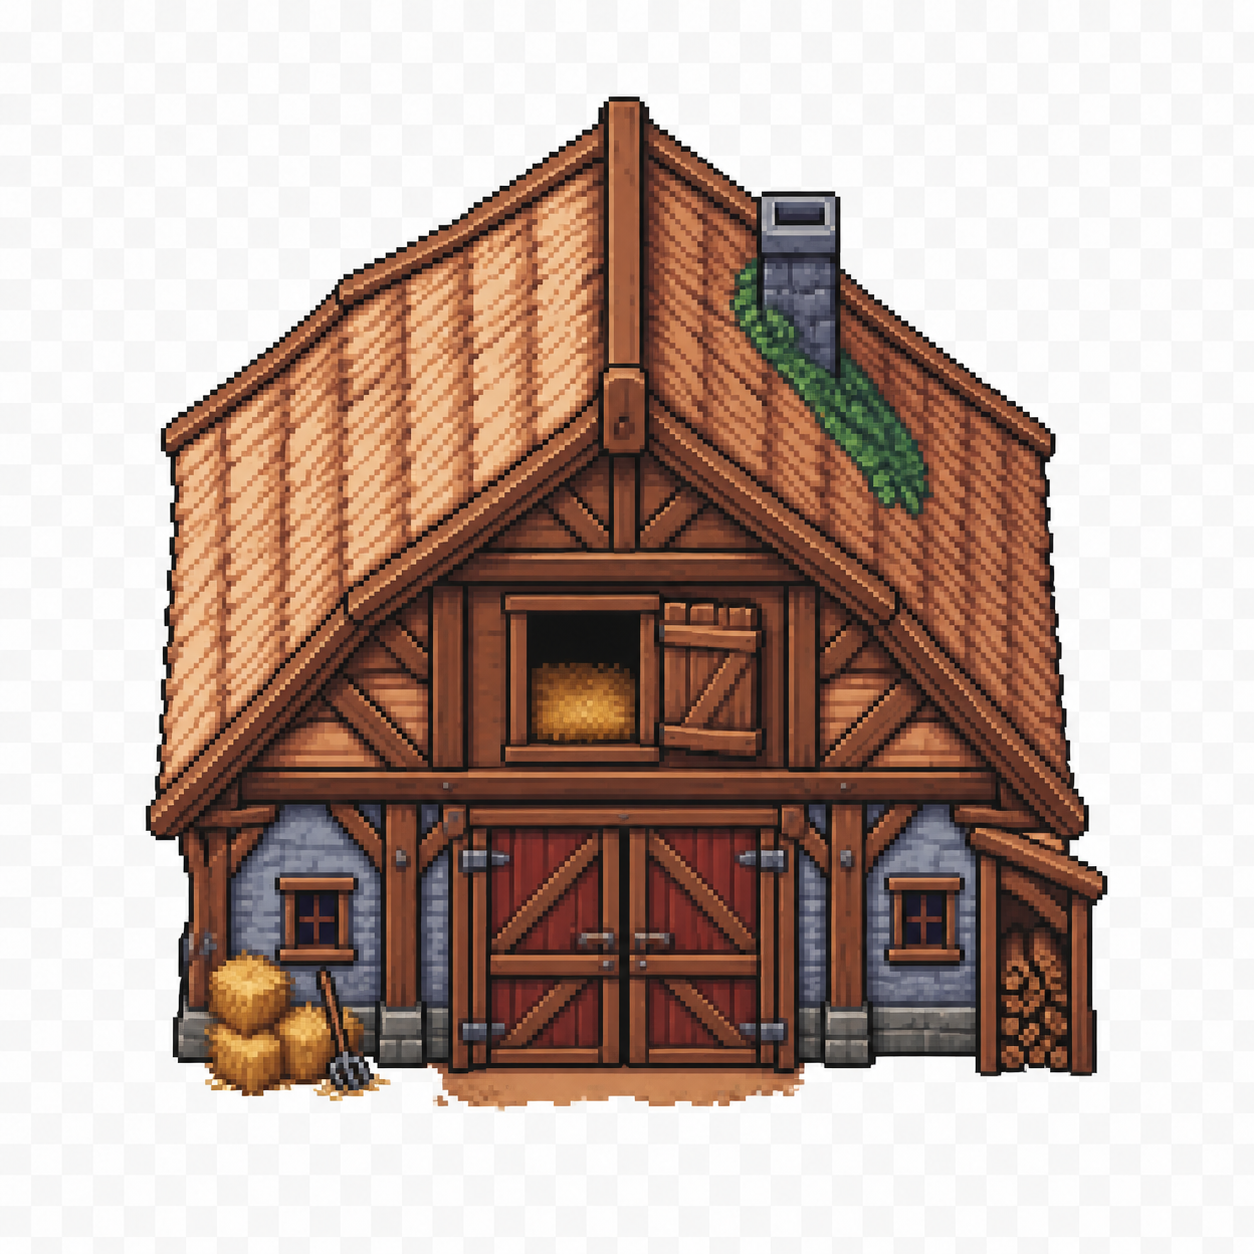
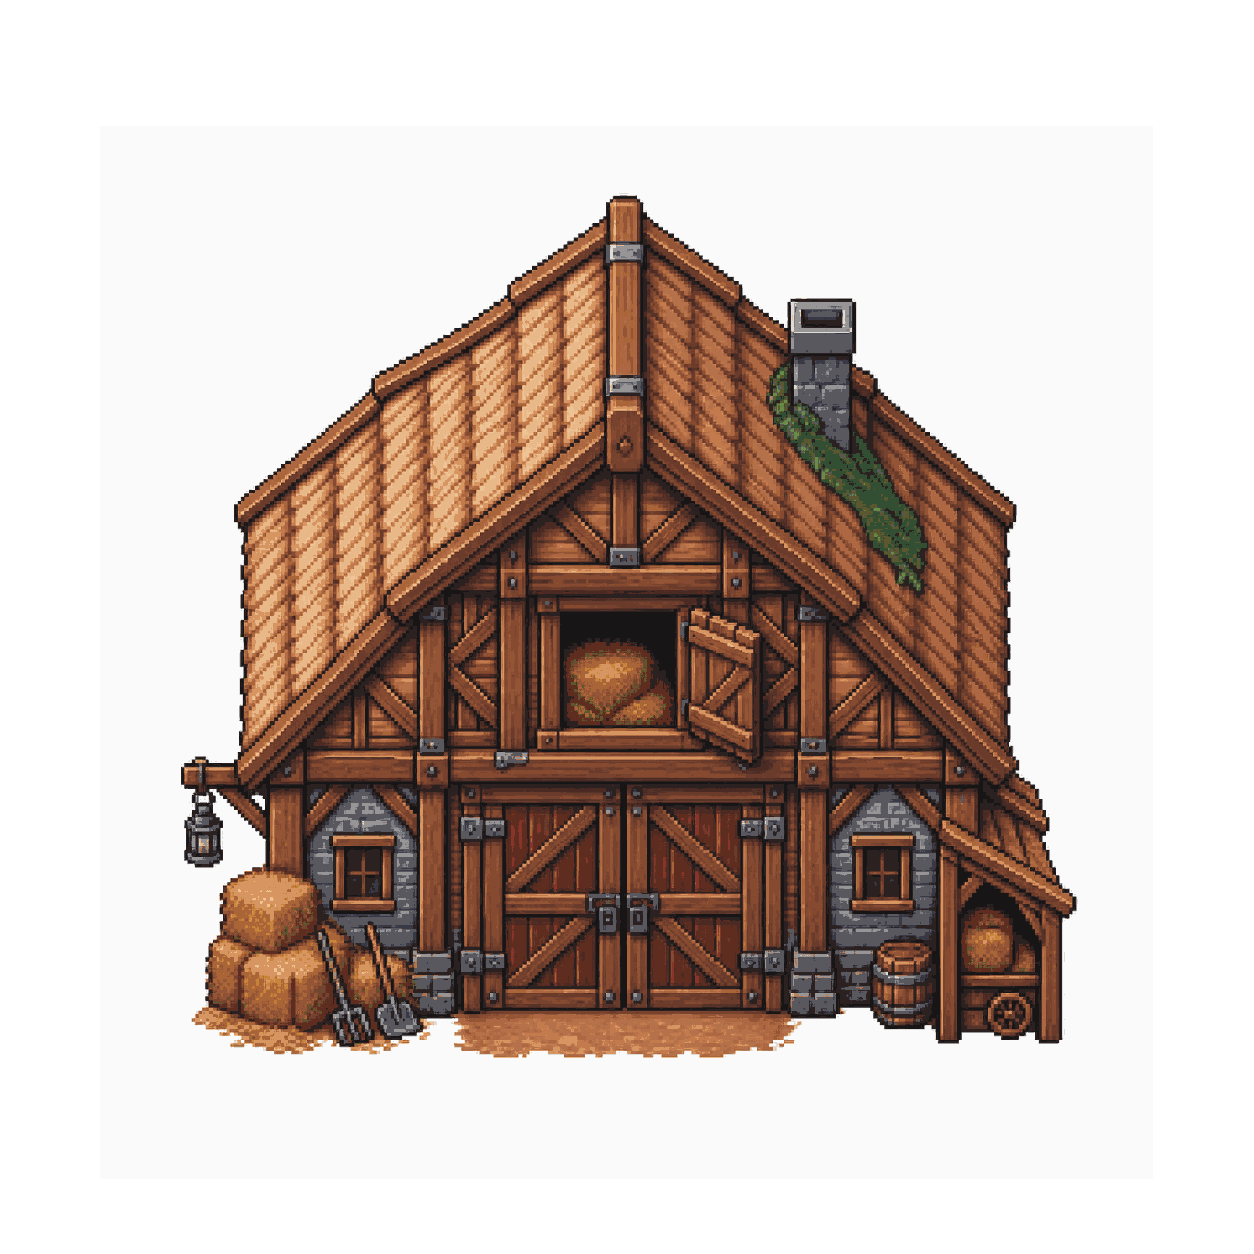
Expand barn and storage building tiers

diff --git a/src/game/data/buildings.ts b/src/game/data/buildings.ts
@@ -58,7 +58,7 @@ export const BUILDING_DEFINITIONS: Record<BuildingType, BuildingDefinition> = {
     type: 'storage_level_1',
     name: 'Storage Lv1',
     size: { w: 2, h: 2 },
-    cost: { wood: 25, stone: 20 },
+    cost: { wood: 14, stone: 8 },
     purpose: 'Starter storage',
     color: 0x746247,
     spritePath: spritePath('storage_level_1'),
@@ -66,22 +66,42 @@ export const BUILDING_DEFINITIONS: Record<BuildingType, BuildingDefinition> = {
   storage_level_2: {
     type: 'storage_level_2',
     name: 'Storage Lv2',
-    size: { w: 3, h: 2 },
-    cost: { wood: 36, stone: 28 },
+    size: { w: 2, h: 2 },
+    cost: { wood: 22, stone: 14 },
     purpose: 'Expanded storage',
     color: 0x6f6048,
     spritePath: spritePath('storage_level_2'),
-    unlock: { minDay: 4, requiresBuildings: { storage_level_1: 1, workshop: 1 } },
+    unlock: { minDay: 3, requiresBuildings: { storage_level_1: 1 } },
   },
   storage_level_3: {
     type: 'storage_level_3',
     name: 'Storage Lv3',
+    size: { w: 2, h: 2 },
+    cost: { wood: 25, stone: 20 },
+    purpose: 'Mid-tier warehouse',
+    color: 0x6c5d47,
+    spritePath: spritePath('storage_level_3'),
+    unlock: { minDay: 4, requiresBuildings: { storage_level_2: 1, workshop: 1 } },
+  },
+  storage_level_4: {
+    type: 'storage_level_4',
+    name: 'Storage Lv4',
+    size: { w: 3, h: 3 },
+    cost: { wood: 36, stone: 28 },
+    purpose: 'Large warehouse',
+    color: 0x665844,
+    spritePath: spritePath('storage_level_4'),
+    unlock: { minDay: 6, requiresBuildings: { storage_level_3: 1, workshop: 1 } },
+  },
+  storage_level_5: {
+    type: 'storage_level_5',
+    name: 'Storage Lv5',
     size: { w: 3, h: 3 },
     cost: { wood: 46, stone: 34 },
     purpose: 'Largest warehouse',
-    color: 0x6c5d47,
-    spritePath: spritePath('storage_level_3'),
-    unlock: { minDay: 7, requiresBuildings: { storage_level_2: 1, mason_yard: 1 } },
+    color: 0x615340,
+    spritePath: spritePath('storage_level_5'),
+    unlock: { minDay: 8, requiresBuildings: { storage_level_4: 1, mason_yard: 1 } },
   },
   lumber_mill_level_1: {
     type: 'lumber_mill_level_1',
@@ -116,8 +136,8 @@ export const BUILDING_DEFINITIONS: Record<BuildingType, BuildingDefinition> = {
   barn_level_1: {
     type: 'barn_level_1',
     name: 'Barn Lv1',
-    size: { w: 3, h: 3 },
-    cost: { wood: 36, stone: 12 },
+    size: { w: 3, h: 2 },
+    cost: { wood: 20, stone: 6 },
     purpose: 'Farm storage level 1',
     color: 0x9f6f49,
     spritePath: spritePath('barn_level_1'),
@@ -127,21 +147,41 @@ export const BUILDING_DEFINITIONS: Record<BuildingType, BuildingDefinition> = {
     type: 'barn_level_2',
     name: 'Barn Lv2',
     size: { w: 3, h: 3 },
-    cost: { wood: 46, stone: 18 },
+    cost: { wood: 28, stone: 10 },
     purpose: 'Farm storage level 2',
     color: 0x986945,
     spritePath: spritePath('barn_level_2'),
-    unlock: { minDay: 5, requiresBuildings: { barn_level_1: 1, farmhouse: 1 } },
+    unlock: { minDay: 4, requiresBuildings: { barn_level_1: 1, farmhouse: 1 } },
   },
   barn_level_3: {
     type: 'barn_level_3',
     name: 'Barn Lv3',
-    size: { w: 4, h: 3 },
-    cost: { wood: 58, stone: 26 },
+    size: { w: 3, h: 3 },
+    cost: { wood: 36, stone: 12 },
     purpose: 'Farm storage level 3',
     color: 0x8e6240,
     spritePath: spritePath('barn_level_3'),
-    unlock: { minDay: 7, requiresBuildings: { barn_level_2: 1, stable: 1 } },
+    unlock: { minDay: 5, requiresBuildings: { barn_level_2: 1, farmhouse: 1 } },
+  },
+  barn_level_4: {
+    type: 'barn_level_4',
+    name: 'Barn Lv4',
+    size: { w: 3, h: 3 },
+    cost: { wood: 46, stone: 18 },
+    purpose: 'Farm storage level 4',
+    color: 0x875c3d,
+    spritePath: spritePath('barn_level_4'),
+    unlock: { minDay: 7, requiresBuildings: { barn_level_3: 1, stable: 1 } },
+  },
+  barn_level_5: {
+    type: 'barn_level_5',
+    name: 'Barn Lv5',
+    size: { w: 4, h: 3 },
+    cost: { wood: 58, stone: 26 },
+    purpose: 'Farm storage level 5',
+    color: 0x805538,
+    spritePath: spritePath('barn_level_5'),
+    unlock: { minDay: 9, requiresBuildings: { barn_level_4: 1, stable: 1, storage_level_2: 1 } },
   },
   blacksmith_level_1: {
     type: 'blacksmith_level_1',

diff --git a/src/game/data/buildingAssetManifest.ts b/src/game/data/buildingAssetManifest.ts
@@ -77,7 +77,23 @@ export const BUILDING_ASSET_MANIFEST: Record<BuildingType, BuildingAssetEntry> =
     finalSpritePath: assetPath('final', 'storage_level_3'),
     activeSpritePath: assetPath('final', 'storage_level_3'),
     artStatus: 'final',
-    brief: 'Storage tier 3 placeholder.',
+    brief: 'Storage tier 3.',
+  },
+  storage_level_4: {
+    type: 'storage_level_4',
+    placeholderSpritePath: assetPath('placeholders', 'storage_level_4'),
+    finalSpritePath: assetPath('final', 'storage_level_4'),
+    activeSpritePath: assetPath('final', 'storage_level_4'),
+    artStatus: 'final',
+    brief: 'Storage tier 4.',
+  },
+  storage_level_5: {
+    type: 'storage_level_5',
+    placeholderSpritePath: assetPath('placeholders', 'storage_level_5'),
+    finalSpritePath: assetPath('final', 'storage_level_5'),
+    activeSpritePath: assetPath('final', 'storage_level_5'),
+    artStatus: 'final',
+    brief: 'Storage tier 5.',
   },
   lumber_mill_level_1: {
     type: 'lumber_mill_level_1',
@@ -125,7 +141,23 @@ export const BUILDING_ASSET_MANIFEST: Record<BuildingType, BuildingAssetEntry> =
     finalSpritePath: assetPath('final', 'barn_level_3'),
     activeSpritePath: assetPath('final', 'barn_level_3'),
     artStatus: 'final',
-    brief: 'Barn tier 3 placeholder.',
+    brief: 'Barn tier 3.',
+  },
+  barn_level_4: {
+    type: 'barn_level_4',
+    placeholderSpritePath: assetPath('placeholders', 'barn_level_4'),
+    finalSpritePath: assetPath('final', 'barn_level_4'),
+    activeSpritePath: assetPath('final', 'barn_level_4'),
+    artStatus: 'final',
+    brief: 'Barn tier 4.',
+  },
+  barn_level_5: {
+    type: 'barn_level_5',
+    placeholderSpritePath: assetPath('placeholders', 'barn_level_5'),
+    finalSpritePath: assetPath('final', 'barn_level_5'),
+    activeSpritePath: assetPath('final', 'barn_level_5'),
+    artStatus: 'final',
+    brief: 'Barn tier 5.',
   },
   blacksmith_level_1: {
     type: 'blacksmith_level_1',

diff --git a/src/game/systems/EconomySystem.ts b/src/game/systems/EconomySystem.ts
@@ -30,11 +30,22 @@ const sum3 = (
   c: BuildingType,
 ): number => (counts[a] ?? 0) + (counts[b] ?? 0) + (counts[c] ?? 0);
 
+const sum5 = (
+  counts: Partial<Record<BuildingType, number>>,
+  a: BuildingType,
+  b: BuildingType,
+  c: BuildingType,
+  d: BuildingType,
+  e: BuildingType,
+): number => (counts[a] ?? 0) + (counts[b] ?? 0) + (counts[c] ?? 0) + (counts[d] ?? 0) + (counts[e] ?? 0);
+
 const computeHousing = (counts: Partial<Record<BuildingType, number>>): number =>
   2 +
   (counts.storage_level_1 ?? 0) * 2 +
   (counts.storage_level_2 ?? 0) * 4 +
   (counts.storage_level_3 ?? 0) * 6 +
+  (counts.storage_level_4 ?? 0) * 8 +
+  (counts.storage_level_5 ?? 0) * 10 +
   (counts.house_level_1 ?? 0) * 2 +
   (counts.house_level_2 ?? 0) * 4 +
   (counts.house_level_3 ?? 0) * 6 +
@@ -73,7 +84,14 @@ export class EconomySystem {
     const housing = computeHousing(counts);
     const needsBefore = computeNeeds(village.population);
     const lumberMillCount = sum3(counts, 'lumber_mill_level_1', 'lumber_mill_level_2', 'lumber_mill_level_3');
-    const barnCount = sum3(counts, 'barn_level_1', 'barn_level_2', 'barn_level_3');
+    const barnCount = sum5(
+      counts,
+      'barn_level_1',
+      'barn_level_2',
+      'barn_level_3',
+      'barn_level_4',
+      'barn_level_5',
+    );
     const blacksmithCount = sum3(counts, 'blacksmith_level_1', 'blacksmith_level_2', 'blacksmith_level_3');
     const tavernCount = sum3(counts, 'tavern_level_1', 'tavern_level_2', 'tavern_level_3');
 

diff --git a/src/game/types/game.ts b/src/game/types/game.ts
@@ -27,12 +27,16 @@ export type BuildingType =
   | 'storage_level_1'
   | 'storage_level_2'
   | 'storage_level_3'
+  | 'storage_level_4'
+  | 'storage_level_5'
   | 'lumber_mill_level_1'
   | 'lumber_mill_level_2'
   | 'lumber_mill_level_3'
   | 'barn_level_1'
   | 'barn_level_2'
   | 'barn_level_3'
+  | 'barn_level_4'
+  | 'barn_level_5'
   | 'blacksmith_level_1'
   | 'blacksmith_level_2'
   | 'blacksmith_level_3'

diff --git a/src/game/data/villagers.ts b/src/game/data/villagers.ts
@@ -50,6 +50,8 @@ export const WORK_BUILDING_TYPES: ReadonlySet<BuildingType> = new Set<BuildingTy
   'barn_level_1',
   'barn_level_2',
   'barn_level_3',
+  'barn_level_4',
+  'barn_level_5',
   'town_hall',
   'well',
 ]);
